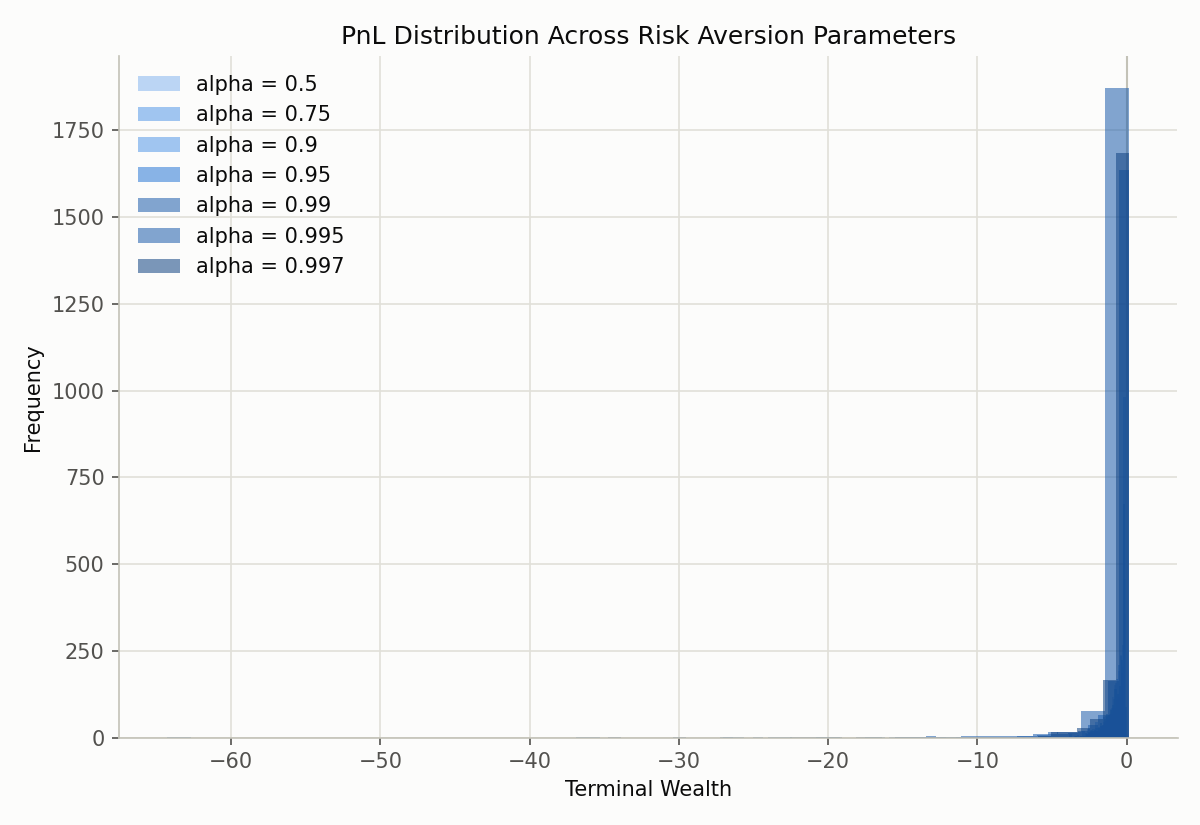
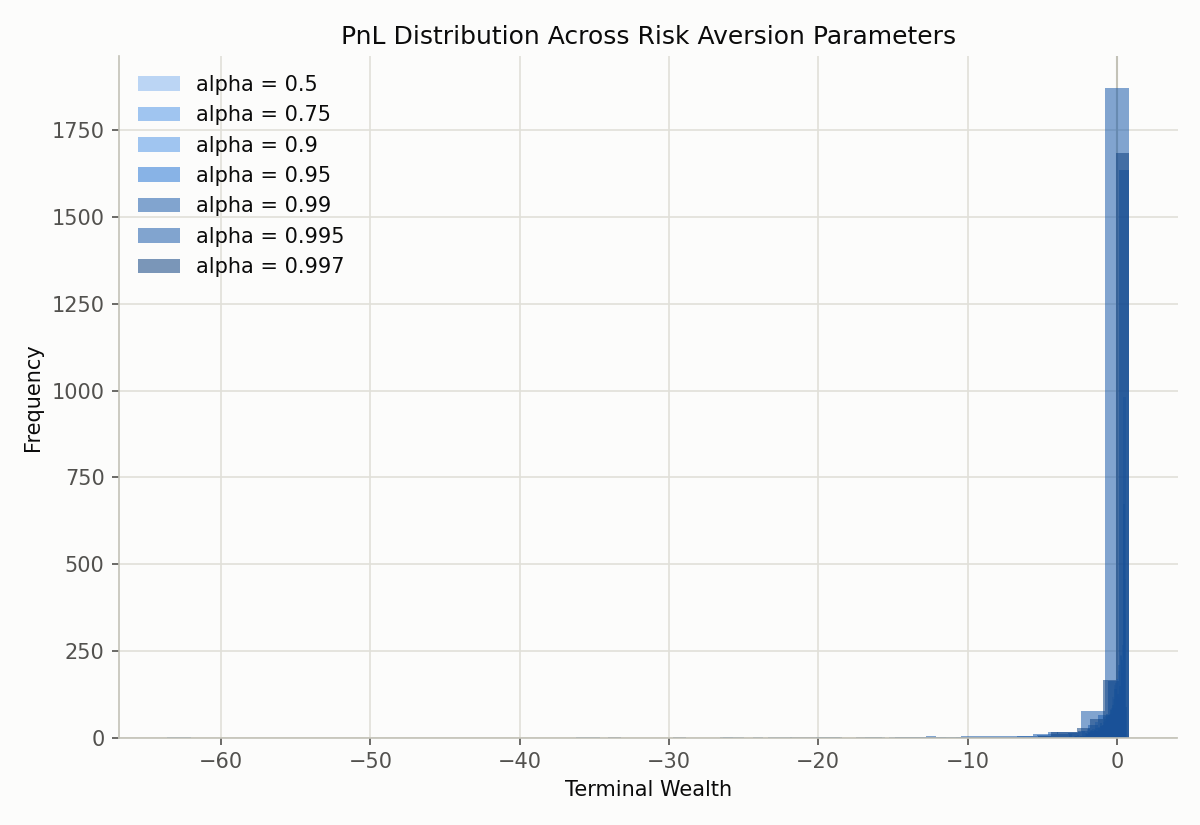
Extend P0 (premium) to the stress test and GAN-driven training via Monte Carlo
Part I already had P0 wired in via a closed-form price. This extends it
to the regime-switching stress test and GAN-driven policy training, where
no closed form exists: environment/market_env.py::estimate_premium_monte_carlo
computes E[Payoff(S_T)] over 500,000 paths, chunked internally (500k
paths is near-instant for the analytic simulator but blew past a 180s
budget as a single un-chunked forward pass through an RNN-based GAN
generator; chunked, the same call finishes in ~10s).

No retraining was needed for existing WGAN-GP-trained checkpoints: a
constant additive wealth shift doesn't change the CVaR-minimizing optimal
policy, only the reported scale, so evaluate.py's regenerated results
below come from re-evaluating the same policies through the new
premium-aware environment. This was verified empirically -- Basic RNN's
documented CVaR99 shifted from 7.27 to 6.61, matching the predicted
-0.663 offset exactly.

500,000 paths was chosen from a convergence check: cross-seed std of the
estimate is ~1% relative at that count vs. 7-10% at 50k/100k, too noisy
to hold fixed for a whole training run.

Claude-Session: https://claude.ai/code/session_01TiJ493H6ozZtHPLezugwh6

diff --git a/src/backtester/evaluate.py b/src/backtester/evaluate.py
@@ -42,7 +42,7 @@ from backtester.plotting import (  # noqa: E402
 )
 from common.black_scholes import BlackScholesDeltaPolicy  # noqa: E402
 from common.stats import excess_kurtosis, skewness  # noqa: E402
-from environment.market_env import MarketEnvironment  # noqa: E402
+from environment.market_env import MarketEnvironment, estimate_premium_monte_carlo  # noqa: E402
 from generator.market_gan import Generator  # noqa: E402
 from loss.cvar import CVaRLoss  # noqa: E402
 from policy.hedging_agent import HedgingAgent, RecurrentHedgingAgent  # noqa: E402
@@ -167,6 +167,9 @@ def run_backtest(
     dt: Annotated[float, "time increment per step"] = 1.0,
     output_dir: Annotated[Union[str, Path], "directory for plots and JSON summary"] = "results",
     seed: Optional[int] = 0,
+    include_premium: Annotated[
+        bool, "include P0 (Monte Carlo E[Payoff(S_T)] under this process) in wealth -- see math_spec.md section 1.1"
+    ] = True,
 ) -> Annotated[Dict, "benchmark summary, also written to <output_dir>/benchmark_summary.json"]:
     path_generator = torch.Generator().manual_seed(seed) if seed is not None else None
     prices = simulate_regime_switching_paths(
@@ -180,7 +183,18 @@ def run_backtest(
         generator=path_generator,
     )
 
-    environment = MarketEnvironment(strike=strike, proportional_fee=proportional_fee, dt=dt)
+    premium = 0.0
+    if include_premium:
+        premium_generator = torch.Generator().manual_seed(seed + 1) if seed is not None else None
+        premium = estimate_premium_monte_carlo(
+            lambda n: simulate_regime_switching_paths(
+                n, seq_len, s0=strike, dt=dt, low_vol=low_vol, high_vol=high_vol,
+                switch_prob=switch_prob, generator=premium_generator,
+            ),
+            strike=strike,
+        )
+
+    environment = MarketEnvironment(strike=strike, proportional_fee=proportional_fee, dt=dt, premium=premium)
 
     all_strategies: Dict[str, Tuple[Any, bool]] = {
         "Black-Scholes Delta": (BlackScholesDeltaPolicy(strike=strike), False)
@@ -209,6 +223,7 @@ def run_backtest(
             "strike": strike,
             "proportional_fee_bps": proportional_fee * 1e4,
             "implied_vol": implied_vol,
+            "premium": premium,
             "stress_regime": {
                 "low_vol": low_vol,
                 "high_vol": high_vol,
@@ -336,6 +351,9 @@ def run_alpha_sweep_backtest(
     checkpoint_dir: Annotated[Union[str, Path], "directory with hedging_agent_*_alpha*.pt files"] = "checkpoints",
     output_dir: Annotated[Union[str, Path], "directory for plots and JSON summary"] = "results",
     seed: Optional[int] = 0,
+    include_premium: Annotated[
+        bool, "include P0 (Monte Carlo E[Payoff(S_T)] under this process) in wealth -- see math_spec.md section 1.1"
+    ] = True,
 ) -> Annotated[Dict, "per-alpha summary, also written to <output_dir>/alpha_sweep_<architecture>_summary.json"]:
     policies = load_alpha_sweep_checkpoints(architecture, alphas, Path(checkpoint_dir))
     if not policies:
@@ -356,7 +374,19 @@ def run_alpha_sweep_backtest(
         switch_prob=switch_prob,
         generator=path_generator,
     )
-    environment = MarketEnvironment(strike=strike, proportional_fee=proportional_fee, dt=dt)
+
+    premium = 0.0
+    if include_premium:
+        premium_generator = torch.Generator().manual_seed(seed + 1) if seed is not None else None
+        premium = estimate_premium_monte_carlo(
+            lambda n: simulate_regime_switching_paths(
+                n, seq_len, s0=strike, dt=dt, low_vol=low_vol, high_vol=high_vol,
+                switch_prob=switch_prob, generator=premium_generator,
+            ),
+            strike=strike,
+        )
+
+    environment = MarketEnvironment(strike=strike, proportional_fee=proportional_fee, dt=dt, premium=premium)
 
     wealth_by_alpha: Dict[float, torch.Tensor] = {}
     summary_by_alpha: Dict[str, Dict[str, float]] = {}
@@ -387,6 +417,7 @@ def run_alpha_sweep_backtest(
             "strike": strike,
             "proportional_fee_bps": proportional_fee * 1e4,
             "implied_vol": implied_vol,
+            "premium": premium,
         },
         "alphas": summary_by_alpha,
     }

diff --git a/src/policy/train_policy.py b/src/policy/train_policy.py
@@ -20,7 +20,7 @@ if str(_SRC_DIR) not in sys.path:
     sys.path.insert(0, str(_SRC_DIR))
 
 from common.black_scholes import BlackScholesDeltaPolicy  # noqa: E402
-from environment.market_env import MarketEnvironment  # noqa: E402
+from environment.market_env import MarketEnvironment, estimate_premium_monte_carlo  # noqa: E402
 from generator.market_gan import Generator  # noqa: E402
 from generator.train_timegan import load_timegan_price_generator  # noqa: E402
 from loss.cvar import CVaRLoss  # noqa: E402
@@ -193,6 +193,17 @@ def main() -> None:
     parser.add_argument("--cvar-alpha", type=float, default=0.95)
     parser.add_argument("--dt", type=float, default=1.0)
     parser.add_argument(
+        "--disable-premium",
+        action="store_true",
+        help="omit P0 from the wealth objective (pre-P0 behavior); by default P0 is estimated via Monte Carlo through the generator, see math_spec.md section 1.1",
+    )
+    parser.add_argument(
+        "--premium-paths",
+        type=int,
+        default=500_000,
+        help="Monte Carlo path count for the P0 estimate (chunked internally; see environment/market_env.py::estimate_premium_monte_carlo)",
+    )
+    parser.add_argument(
         "--architecture",
         type=str,
         choices=["mlp", "rnn", "lstm", "gru"],
@@ -313,8 +324,20 @@ def _train_and_save(
         )
         sequence_policy = True
 
+    premium = 0.0
+    if not args.disable_premium:
+        premium = estimate_premium_monte_carlo(
+            lambda n: generator(generator.sample_noise(n, args.seq_len, device=device)),
+            strike=args.strike,
+            num_paths=args.premium_paths,
+        )
+        print(
+            f"P0 (premium) estimated via Monte Carlo over {args.premium_paths} paths "
+            f"through the generator: {premium:.4f}"
+        )
+
     environment = MarketEnvironment(
-        strike=args.strike, proportional_fee=args.proportional_fee_bps / 1e4, dt=args.dt
+        strike=args.strike, proportional_fee=args.proportional_fee_bps / 1e4, dt=args.dt, premium=premium
     )
     cvar_loss = CVaRLoss(alpha=alpha)
 
@@ -346,6 +369,7 @@ def _train_and_save(
     checkpoint_path.parent.mkdir(parents=True, exist_ok=True)
     saved_args = dict(vars(args))
     saved_args["cvar_alpha"] = alpha  # reflect the actual alpha used for this checkpoint
+    saved_args["premium"] = premium  # the actual Monte Carlo estimate used, not just the CLI request
     torch.save(
         {
             "policy_state_dict": policy.state_dict(),

diff --git a/src/environment/market_env.py b/src/environment/market_env.py
@@ -65,6 +65,43 @@ def european_call_payoff(
     return torch.clamp(S_T - strike, min=0.0)
 
 
+def estimate_premium_monte_carlo(
+    sample_prices: Annotated[
+        "Callable[[int], torch.Tensor]",
+        "callable(batch_size) -> [Batch, Time_Steps, 1] price paths, from whatever "
+        "simulator/generator is in use (regime-switching, WGAN-GP, TimeGAN, ...)",
+    ],
+    strike: Annotated[float, "option strike price K"],
+    num_paths: Annotated[
+        int,
+        "500,000 chosen empirically: at this process's own regime-switching "
+        "params, cross-seed std of the estimate is ~1% relative "
+        "(50k/100k are 7-10% relative, too noisy to hold fixed for a whole "
+        "training run) -- see RESULTS.md's P0 section for the convergence check",
+    ] = 500_000,
+    chunk_size: Annotated[
+        int,
+        "paths per sample_prices() call. A single 500k-path call is near-instant "
+        "for the closed-form/analytic regime-switching simulator, but an RNN-based "
+        "GAN generator forward pass at that batch size was observed to blow past "
+        "any reasonable memory/time budget on CPU (100k took ~2s, 500k did not "
+        "finish in 180s) -- chunking keeps peak memory bounded regardless of "
+        "num_paths and works uniformly for both cases",
+    ] = 50_000,
+) -> Annotated[float, "Monte Carlo E[Payoff(S_T)], r=0 so this is also the fair option value"]:
+    with torch.no_grad():
+        total = 0.0
+        remaining = num_paths
+        while remaining > 0:
+            batch = min(chunk_size, remaining)
+            prices = sample_prices(batch)
+            S_T = prices[:, -1, :]
+            payoff = european_call_payoff(S_T, strike)
+            total += payoff.sum().item()
+            remaining -= batch
+        return total / num_paths
+
+
 class MarketEnvironment:
     """Simulates the hedged wealth path of a short European call position."""
 

diff --git a/tests/test_policy.py b/tests/test_policy.py
@@ -4,7 +4,8 @@ import pytest
 import torch
 
 from common.black_scholes import BlackScholesDeltaPolicy, black_scholes_call_price
-from environment.market_env import MarketEnvironment
+from environment.market_env import MarketEnvironment, estimate_premium_monte_carlo
+from generator.data import sample_real_prices
 from generator.market_gan import Generator
 from loss.cvar import CVaRLoss
 from policy.hedging_agent import HedgingAgent, RecurrentHedgingAgent
@@ -84,6 +85,29 @@ def test_black_scholes_call_price_matches_hand_computed_value_for_part1_params()
 def test_black_scholes_call_price_reduces_to_intrinsic_value_at_near_zero_volatility() -> None:
     price = black_scholes_call_price(S0=110.0, K=100.0, tau=1.0, sigma=1e-6)
     assert price == pytest.approx(10.0, abs=1e-3)
+
+
+def test_estimate_premium_monte_carlo_matches_closed_form_for_gbm() -> None:
+    torch.manual_seed(0)
+    s0, strike, vol, seq_len = 100.0, 100.0, 0.15, 30
+    dt = (1.0 / 12.0) / (seq_len - 1)
+
+    def sample_prices(batch_size: int) -> torch.Tensor:
+        return sample_real_prices(batch_size, seq_len, s0=s0, vol=vol, dt=dt)
+
+    premium = estimate_premium_monte_carlo(sample_prices, strike=strike, num_paths=200_000)
+
+    # Closed-form Black-Scholes price at these params (Part I's own setup) is ~1.727.
+    assert premium == pytest.approx(1.727, abs=0.05)
+
+
+def test_estimate_premium_monte_carlo_is_nonnegative() -> None:
+    def sample_prices(batch_size: int) -> torch.Tensor:
+        return sample_real_prices(batch_size, seq_len=10, s0=1.0, vol=0.3)
+
+    premium = estimate_premium_monte_carlo(sample_prices, strike=1.0, num_paths=10_000)
+
+    assert premium >= 0.0
 
 
 def test_market_environment_premium_defaults_to_zero_and_is_backward_compatible() -> None:
